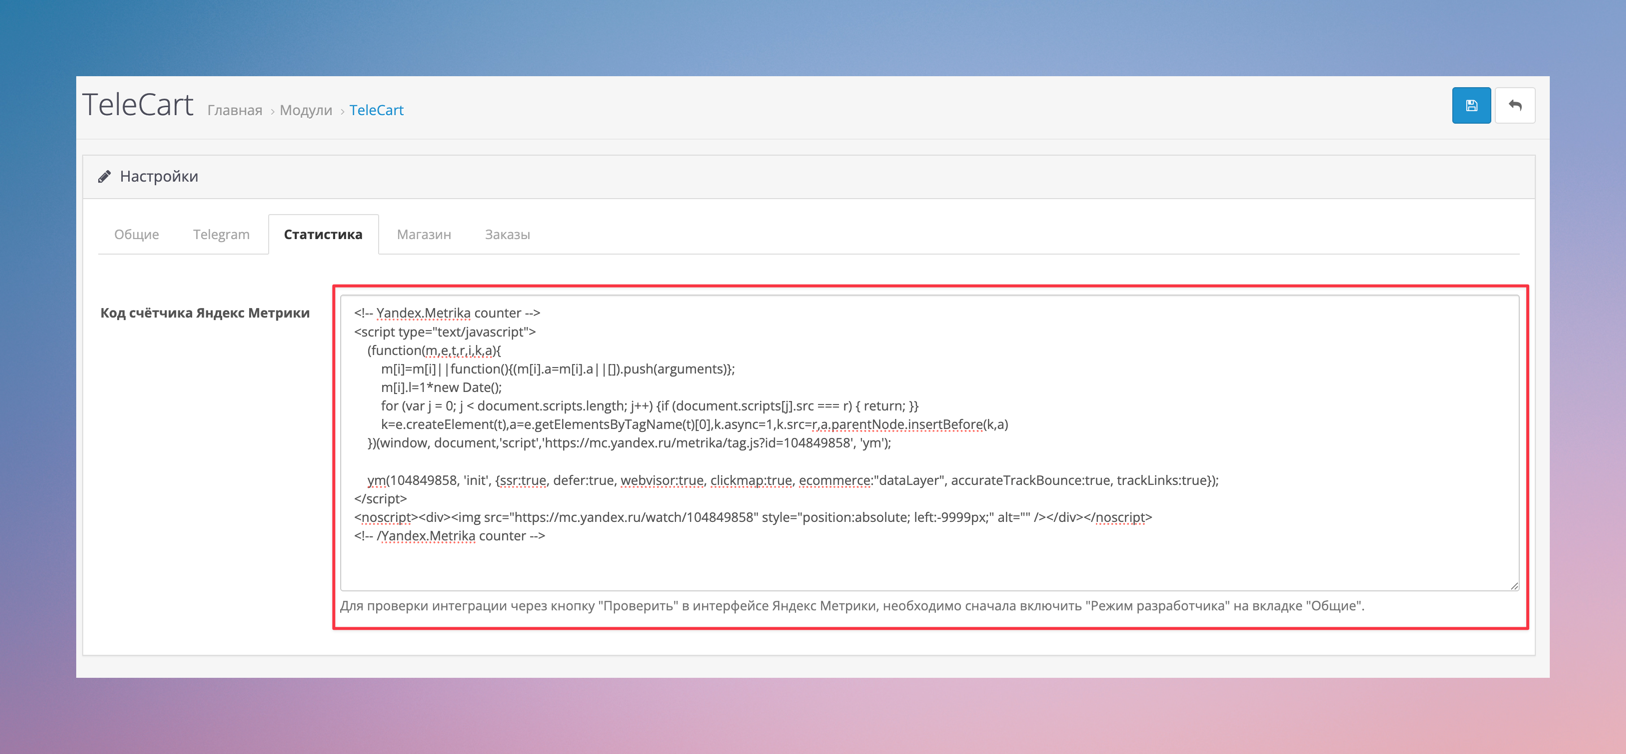
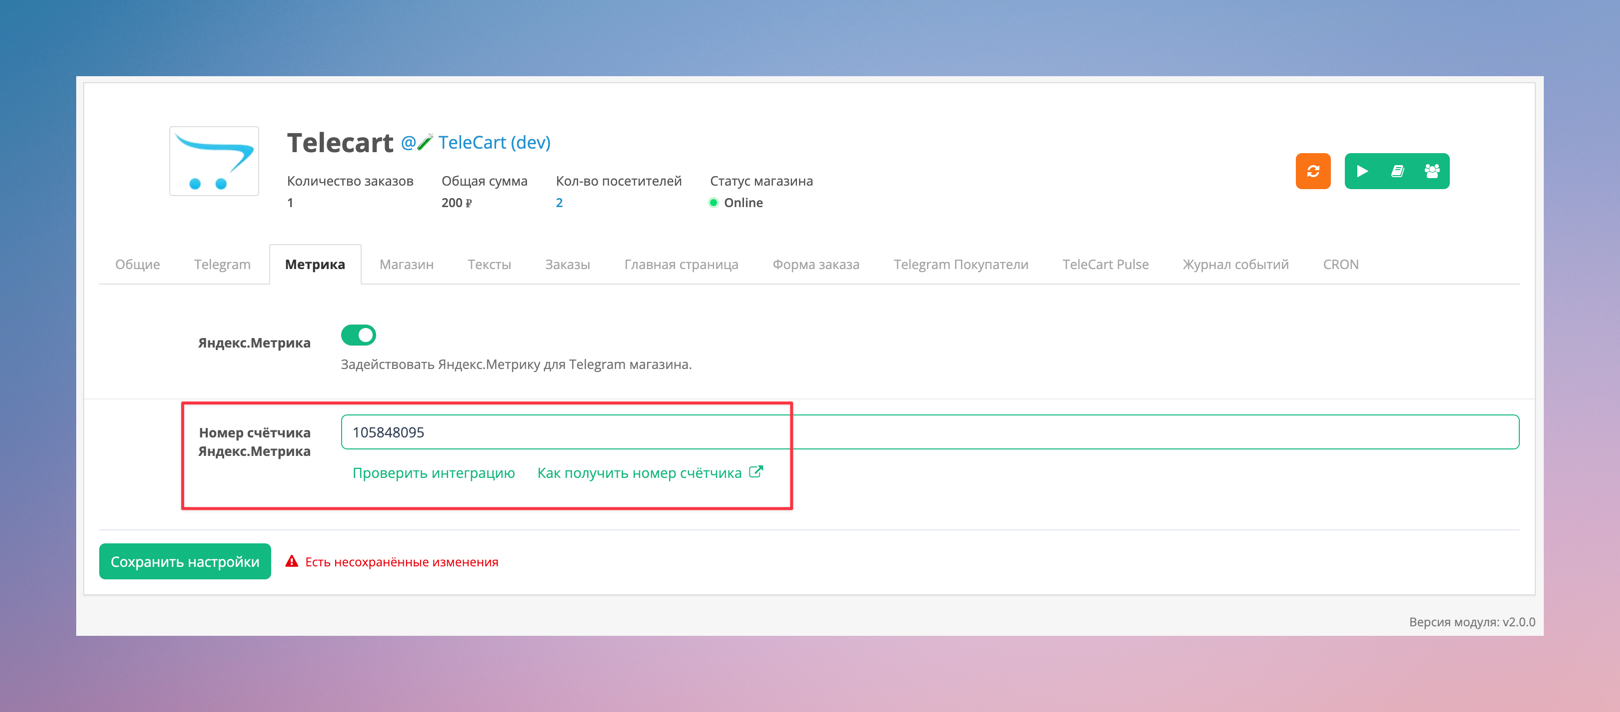
feat: update docs

diff --git a/docs/analitycs/start.md b/docs/analitycs/start.md
@@ -25,53 +25,18 @@
 
 1. **Имя счетчика**. Будет отображаться в интерфейсе Яндекс.Метрики.
 2. **Адрес сайта**. Укажите адрес вашего интернет-магазина (без `http`, `www` и т.д.). Рекомендуется поставить галочку **«Принимать данные только с указанных адресов»**.
-4. **Настройка кода счетчика**. В диалоговом окне "Настройки кода счётчика", **НЕ нужно включать** следующие опции:
-
-    * Отслеживание хеша в адресной строке браузера
-    * Для XML сайтов
-    * В одну строку
-
-        ![Правильные настройки кода счётчика](counter.png){ loading=lazy, width=400 }
-        /// caption
-        Правильные настройки кода счётчика
-        ///
+4. **Настройка кода счетчика**. Можно не менять.
 5. Необходимо принять условия пользовательского соглашения.
 6. Нажать на кнопку и продолжить заполнение формы, всё, что требует Яндекс.Метрика.
 
-Обязательно нужно будет внести некоторые изменения в код счётчика. Эта необходимость связана с особенностями работы магазина внутри Telegram.
+После того, как вы получили код счётчика Яндекс.Метрики, необходимо скопировать оттуда его идентификатор, я выделил его красной рамкой на примере ниже.
 
-Пример полученного счётчика метрик:
+![Пример полученного счётчика Яндекс.Метрики](yandex-metrika-code-example.png){ loading=lazy, width=600 }
+/// caption
+Пример полученного счётчика Яндекс.Метрики
+///
 
-```js
-<!-- Yandex.Metrika counter -->
-<script type="text/javascript">
-    (function(m,e,t,r,i,k,a){
-        m[i]=m[i]||function(){(m[i].a=m[i].a||[]).push(arguments)};
-        m[i].l=1*new Date();
-        for (var j = 0; j < document.scripts.length; j++) {if (document.scripts[j].src === r) { return; }}
-        k=e.createElement(t),a=e.getElementsByTagName(t)[0],k.async=1,k.src=r,a.parentNode.insertBefore(k,a)
-    })(window, document,'script','https://mc.yandex.ru/metrika/tag.js?id=123456789', 'ym');
-
-    ym(123456789, 'init', {ssr:true, defer:true, webvisor:true, clickmap:true, ecommerce:"dataLayer", accurateTrackBounce:true, trackLinks:true});
-</script>
-<noscript><div><img src="https://mc.yandex.ru/watch/104849858" style="position:absolute; left:-9999px;" alt="" /></div></noscript>
-<!-- /Yandex.Metrika counter -->
-```
-
-В моём примере `123456789` - это уникальный идентификатор счётчика. У вас будет другой. Так же, нужно обратить внимание на строку 
-
-```js
-ym(123456789, 'init', {ssr:true, defer:true, webvisor:true, clickmap:true, ecommerce:"dataLayer", accurateTrackBounce:true, trackLinks:true});
-```
-
-В вашем счётчике обязательно должны быть включены следующие опции, иначе счётчик не будет нормально работать:
-
-* `ssr: true`
-* `defer: true`
-
-Можно скопировать всё строку и заменить, предварительно вместо `123456789` вписав свой идентификатор счётчика.
-
-После создания счётчика, необходимо полученный JavaScript код счётчика вставить в настройки Telecart (вкладка Аналитика).
+Нужно скопировать его и вставить в настройки Telecart (вкладка Аналитика).
 
 ![Форма настройки аналитики в Telecart](telecart_analytics.png){ loading=lazy, width=600 }
 /// caption
@@ -87,16 +52,12 @@ ym(123456789, 'init', {ssr:true, defer:true, webvisor:true, clickmap:true, ecomm
 Опция включения режима разработчика в Telecart
 ///
 
-Эта опция позволит открывать Telecart прямо в браузере. Теперь можно нажать на "Проверить" в интерфейсе Яндекс.Матрики и убедиться, что счётчик интегрирован успешно.
+Теперь можно перейти на вкладку "Метрика" и нажать на кнопку "Проверить интеграцию" под полем для ввода номера счётчика.
+Откроется браузер, где должно отобразиться сообщение об успешной интеграции с Яндекс метрикой.
 
-![Проверка интеграции счётчиков Яндекс.Матрики в Telecart магазин](ym_validate.png){ loading=lazy, width=600 }
+![Пример сообщения об успешнйо интеграции Яндекс.Метрики в TeleCart](yandex-metrika-counter-check.png){ loading=lazy, width=600 }
 /// caption
-Проверка интеграции счётчиков Яндекс.Матрики в Telecart магазин
-///
-
-![Сообщение об успешной интеграции Яндекс.Матрики в Telecart магазин](ya_metrika_success.png){ loading=lazy, width=600 }
-/// caption
-Сообщение об успешной интеграции Яндекс.Матрики в Telecart магазин
+Пример сообщения об успешнйо интеграции Яндекс.Метрики в TeleCart
 ///
 
 !!! Внимание

diff --git a/docs/changelog/2.0.0.md b/docs/changelog/2.0.0.md
@@ -28,10 +28,11 @@
 
 ## ✨ Улучшено
 
-- Добавлена навигация жестом swipe back — проведите вправо от левого края экрана, чтобы вернуться на предыдущую страницу, как в нативных мобильных приложениях.
-- Улучшен интерфейс поиска: sticky-панель, автоматическое скрытие клавиатуры
-- Обновлен дизайн главной страницы и общий UI/UX
-- Исправлено определение цвета шрифта заголовка в области системной строки (батарея и иконки статусов) на iOS в зависимости от фона — устранена ситуация, при которой текст и фон имели одинаковый цвет.
+1. Добавлена навигация жестом swipe back — проведите вправо от левого края экрана, чтобы вернуться на предыдущую страницу, как в нативных мобильных приложениях.
+2. Улучшен интерфейс поиска: sticky-панель, автоматическое скрытие клавиатуры
+3. Обновлен дизайн главной страницы и общий UI/UX
+4. Исправлено определение цвета шрифта заголовка в области системной строки (батарея и иконки статусов) на iOS в зависимости от фона — устранена ситуация, при которой текст и фон имели одинаковый цвет.
+5. Доработаны поля для ввода шаблонов Telegram уведомлений о заказах для владельца и для покупателя. Полностью поддерживается [HTML разметка Telegram](https://core.telegram.org/bots/api#html-style). Для удобства добавлена подсветка синтаксиса.
 
 ## ⚠ Несовместимые изменения
 

diff --git a/docs/changelog/0.0.1.md b/docs/changelog/0.0.1.md
@@ -10,3 +10,4 @@
 
 
 
+

diff --git a/docs/changelog/1.0.0.md b/docs/changelog/1.0.0.md
@@ -33,3 +33,4 @@
 
 
 
+

diff --git a/docs/changelog/1.0.6.md b/docs/changelog/1.0.6.md
@@ -11,3 +11,4 @@
 
 
 
+

diff --git a/docs/changelog/1.0.7.md b/docs/changelog/1.0.7.md
@@ -23,3 +23,4 @@
 
 
 
+

diff --git a/docs/changelog/1.2.0.md b/docs/changelog/1.2.0.md
@@ -12,3 +12,4 @@
 
 
 
+

diff --git a/docs/changelog/1.3.0.md b/docs/changelog/1.3.0.md
@@ -22,3 +22,4 @@
 
 
 
+

diff --git a/docs/changelog/0.0.2.md b/docs/changelog/0.0.2.md
@@ -9,3 +9,4 @@
 
 
 
+

diff --git a/docs/changelog/1.0.1.md b/docs/changelog/1.0.1.md
@@ -8,3 +8,4 @@
 
 
 
+

diff --git a/docs/changelog/1.0.2.md b/docs/changelog/1.0.2.md
@@ -8,3 +8,4 @@
 
 
 
+

diff --git a/docs/changelog/1.0.3.md b/docs/changelog/1.0.3.md
@@ -8,3 +8,4 @@
 
 
 
+
